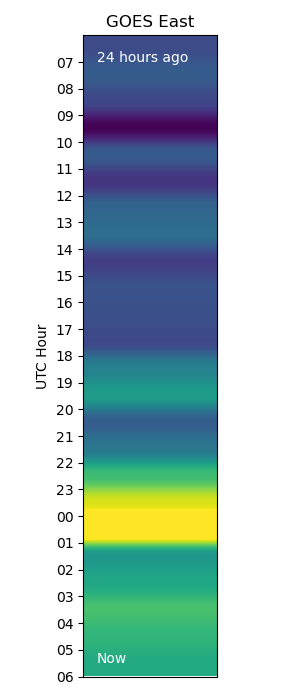
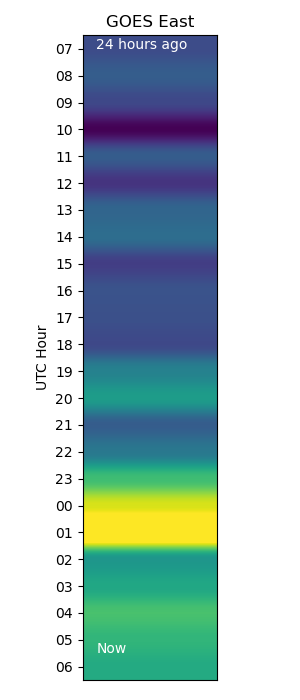
work on refining Bz display. Bug in y axis labels

diff --git a/dnacore_v3/plot_spark_bz.py b/dnacore_v3/plot_spark_bz.py
@@ -21,14 +21,13 @@ with open("Geomag_Bz_spark.csv", "r") as f:
     d_hi = []
     d_lo = []
     hours = []
-    ticks = []
-    i = 0
+    # ticks = []
+    i = 30
     for line in f:
         d = line.strip("\n")
         d = d.split(",")
         hr = d[0]
         da = float(d[1])
-        d = []
         if da > 0:
             d_hi.append((da))
             d_lo.append(null_value)
@@ -38,15 +37,16 @@ with open("Geomag_Bz_spark.csv", "r") as f:
 
         # convert posix stamp to UTC and generate a list of every nth label
         hr = convert_datetime_to_hour(hr)
+        # hours.append(hr)
         if i % hour_label_spacing == 0:
             hours.append(hr)
-            ticks.append(i)
+            # ticks.append(i)
         else:
             hours.append("")
-            ticks.append(i)
+            # ticks.append(i)
         i = i + 1
 
-fig, ax = plt.subplots(figsize=(4, 10))
+fig, ax = plt.subplots(figsize=(4, 7))
 
 ax.set_xticks([-9,-9,-7,-6,-5,-4,-3,-2,-1,0,1,2,3,4,5,6,7,8,9])
 ax.set_ylabel("UTC Hour")
@@ -55,13 +55,14 @@ ax.set_title(title)
 # ax.bar(x=ticks, height=d_hi, color='#509050')
 # ax.bar(x=ticks, height=d_lo, color='red')
 
-ax.barh(y=ticks, width=d_hi, color='#509050')
-ax.barh(y=ticks, width=d_lo, color='red')
+ax.barh(y=hours, width=d_hi, color='#509050')
+ax.barh(y=hours, width=d_lo, color='red')
 plt.grid(color='#95a5a6', linestyle='-', linewidth=1, axis='x', alpha=0.7)
+plt.grid(color='#95a5a6', linestyle='-', linewidth=1, axis='y', alpha=0.7)
 
 fig.tight_layout()
-plt.yticks(ticks=ticks, labels=hours, rotation=0)
-fig.subplots_adjust(bottom=0.17)
+plt.yticks(ticks=hours, labels=hours, rotation=0)
+# fig.subplots_adjust(bottom=0.17)
 
 # plt.show()
 plt.savefig(savefile)
